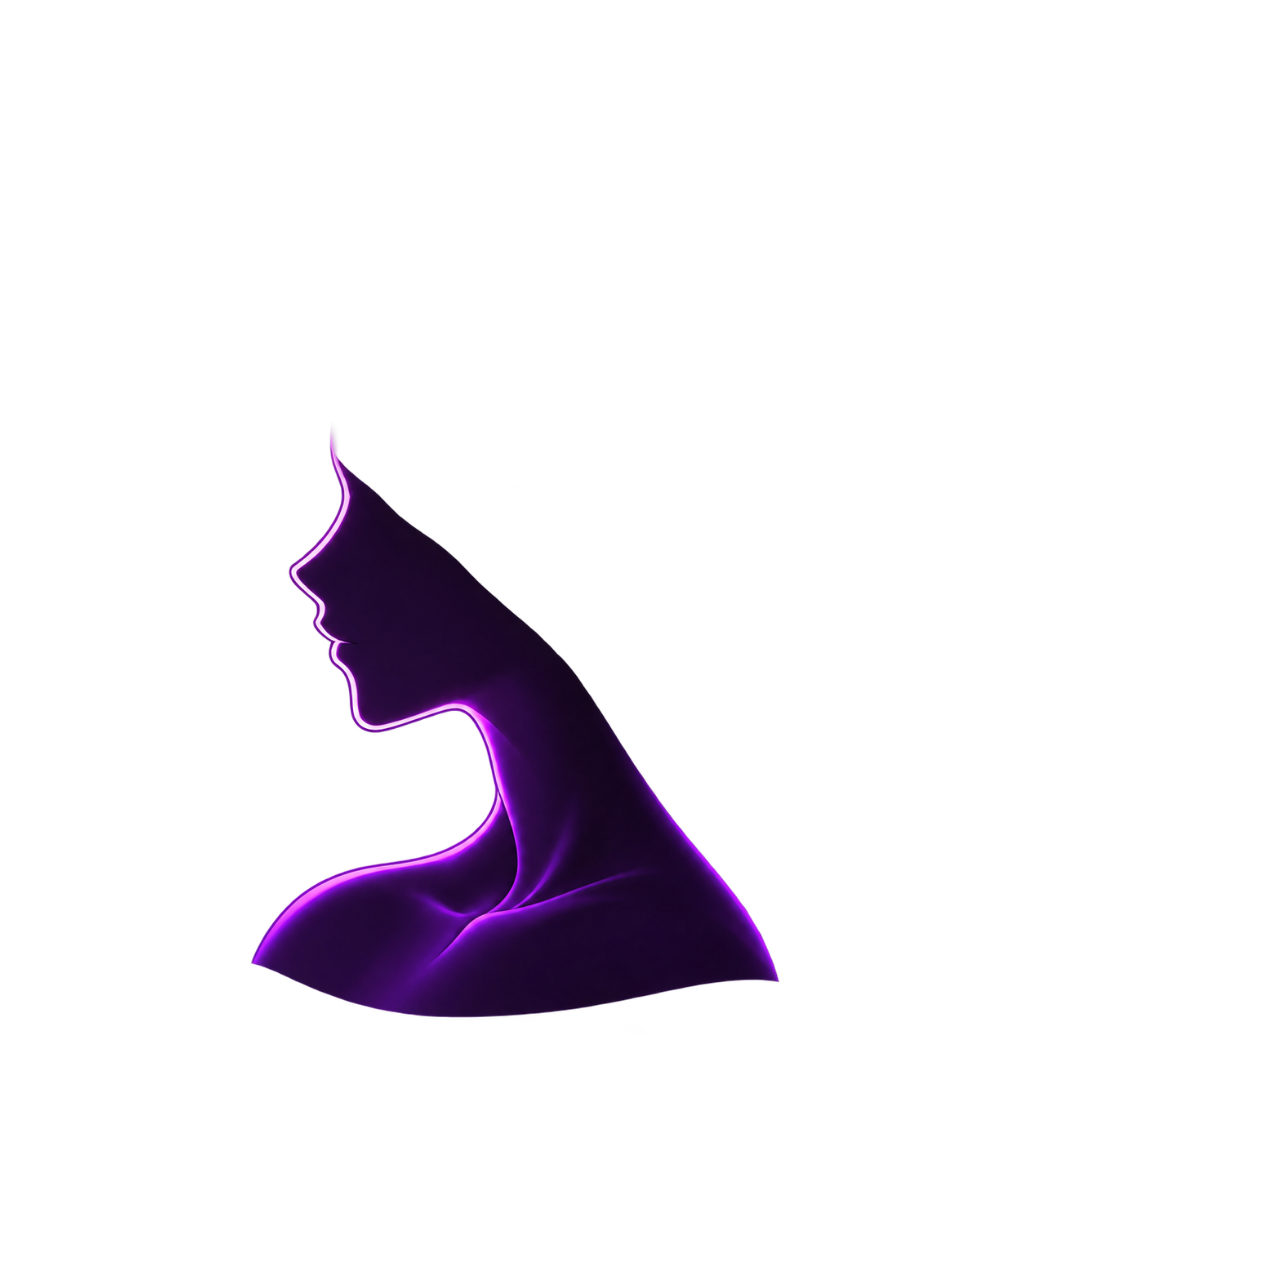
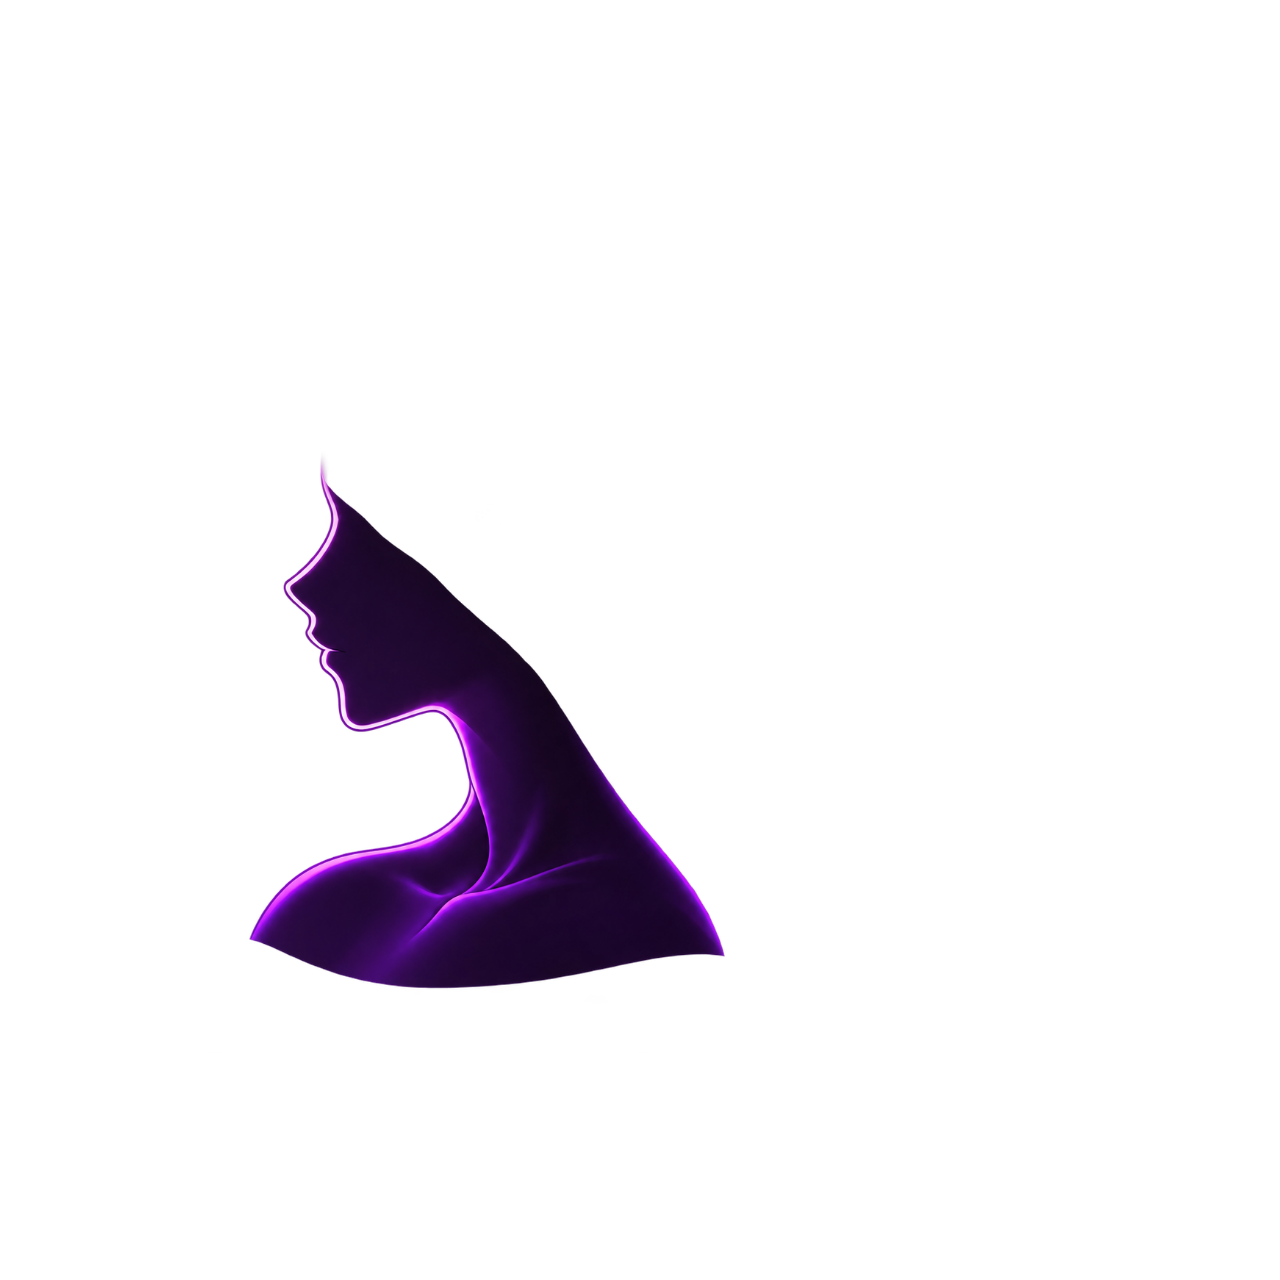
[#221] fix(emblem): preserve violet hair depth and frame clearance

Changed region(s): [[0.1875, 0.3438, 0.625, 0.8125], [0.2812, 0.5625, 0.3125, 0.5938]]

diff --git a/apps/stellar-desktop-e2e/src/emblem.spec.ts b/apps/stellar-desktop-e2e/src/emblem.spec.ts
@@ -1,5 +1,48 @@
 import { expect, test } from '@playwright/test';
 
+test('purple hair stays in front of every body fragment before settlement', async ({
+  page,
+}) => {
+  await page.goto('/');
+  const menu = page.getByRole('button', {
+    name: 'Experience menu',
+    exact: true,
+  });
+  await menu.click();
+  await page
+    .getByRole('button', { name: 'Start activity', exact: true })
+    .click();
+  const scene = page.locator('.camera');
+  await expect
+    .poll(() => scene.evaluate((element) => element.getAnimations().length))
+    .toBe(1);
+  const ordering = await scene.evaluate((element) => {
+    const animations = element.getAnimations({ subtree: true });
+    for (const animation of animations) {
+      animation.pause();
+      animation.currentTime = 900;
+    }
+    const planes = Array.from(element.querySelectorAll<HTMLElement>('.plane'));
+    const hair = planes.find((plane) =>
+      plane.querySelector('img')?.src.endsWith('/violet-hair.png'),
+    );
+    const bodies = planes.filter((plane) =>
+      plane.querySelector('img')?.src.endsWith('/violet-body.png'),
+    );
+    if (!hair || bodies.length !== 3)
+      throw Error('Missing purple artwork planes');
+    const depth = (plane: HTMLElement) =>
+      new DOMMatrix(getComputedStyle(plane).transform).m43;
+    const result = { hair: depth(hair), bodies: bodies.map(depth) };
+    for (const animation of animations) animation.play();
+    return result;
+  });
+  expect(ordering.hair).toBeLessThan(0);
+  for (const body of ordering.bodies)
+    expect(ordering.hair).toBeGreaterThan(body);
+  await menu.click();
+});
+
 test('settled face assembly is pixel-identical to the original unclipped image stack at supported sizes', async ({
   page,
 }) => {

diff --git a/libs/stellar-emblem/production-v1/README.md b/libs/stellar-emblem/production-v1/README.md
@@ -28,7 +28,9 @@ The original #176 independent image-capable review accepted the visual direction
 
 ## Registered face fragmentation (#211)
 
-The #221 candidate moves the gold ornament in front of its own hair in the exploded depth order. Previously its depth stayed behind the hair until every plane reached zero, at which point paint order abruptly made it visible. Both ornaments now retain the same front-to-back relationship during assembly. It also raises the violet body by 15 source units and moves it left by 15, and raises the gold body by 30 units and moves it right by 7. This re-registers the untouched source cutouts inside their hair apertures and aligns the gold nose with the existing hair contour. The two body exports and composed previews change; the six original generated sources and all other exported images retain their original pixels. Every assembled transform remains zero. Native evidence and comparison with the supplied canonical reference determine visual acceptance, not the zero-pose invariant alone.
+The #221 candidate keeps both ornaments in front of their own hair throughout assembly. The violet hair also stays in front of every violet body fragment: its previous depth index put it behind the body during motion even though its final paint order was in front, making covered strands suddenly appear near settlement. The exporter rejects either reversed relationship. Depth spacing, camera and durations are unchanged.
+
+The violet body uses scale 0.72 at (37, 131), reducing its size by 10% from the earlier 0.8 registration and placing its profile further left and down. At alpha 24/255 or greater, its maximum radius is 492.13 source units and the untouched violet hair's is 490.86. Both clear the outer frame's inner edge at radius 497.5; the exporter requires at least two source units of clearance. This prevents the purple contour from running under the outer gold stroke without clipping or repainting it. The gold body remains raised by 30 units and moved right by 7 to join the existing hair contour. The two body exports and composed previews change; the six original generated sources and all other exported images retain their original pixels. Every assembled transform remains zero. Native evidence and comparison with the supplied canonical reference determine visual acceptance, not the zero-pose invariant alone.
 
 The emblem molecule also accepts an explicit `solActive` presentation input. Once assembly actually settles, it reveals a single red circle concentric with the existing outer gold circle and two narrow eye glints; the effect scales with the emblem, fades on removal and respects reduced motion. The app binds this input to the restored persistent voice composition model, including explicit Sol drafting and confirmed reset to Terra. This input communicates selected intent and does not itself verify the actual inference provider or model.
 

diff --git a/apps/stellar-desktop/public/emblem/provenance.md b/apps/stellar-desktop/public/emblem/provenance.md
@@ -2,14 +2,14 @@
 
 Runtime files are byte-identical copies from [the production-v1 source pack](https://github.com/DanielssonThomas/Stellar/blob/develop/libs/stellar-emblem/production-v1/README.md). Issue #176 supplied the hybrid raster artwork and editable SVG geometry; #204 composes its four stars into the outer frame, adds three matching inner circles and assigns eleven uniformly spaced logical planes. #211 divides each existing body into three registered clips, yielding fifteen logical planes over the same eleven image files. The manifest retains production-candidate status. All files share a 1280 square origin and all assembled transforms remain zero. The #221 correction re-registers the two body exports inside their hair apertures; all six generated source cutouts remain unchanged, as do the other four exported raster images.
 
-The exported runtime payload is 2,744,098 bytes for the manifest and eleven unique registered image files. Text newline conventions can change that count on another platform. Original references, generated masters, registration, history and previews remain in the source library. Imagegen supplied the original raster artwork; #221 only changes deterministic registration. Native performance and physical microphones require separate verification.
+The exported runtime payload is 2,708,109 bytes for the manifest and eleven unique registered image files. Text newline conventions can change that count on another platform. Original references, generated masters, registration, history and previews remain in the source library. Imagegen supplied the original raster artwork; #221 only changes deterministic registration. Native performance and physical microphones require separate verification.
 
 Copy integrity was checked byte-for-byte against source files on this checkout. SHA-256 hashes below normalize JSON/SVG text to LF and preserve exact PNG bytes.
 
 | Runtime file               | SHA-256                                                          |
 | -------------------------- | ---------------------------------------------------------------- |
-| manifest.json              | 5d19f26cbeb4bd01eaa4cec1963eaaecb281087179b36b0c537128e3ef2dd992 |
-| layers/violet-body.png     | d9123e536bad414ac09496f4fa34c3b940c8d60858ea7ca206fd7f555b45dfeb |
+| manifest.json              | d63423584f276dfc60ade96d01e42aa1076bca00e68ed4920999609f925969e8 |
+| layers/violet-body.png     | 2d26d670fbaab0630cd7d243e55ba75de39b8662d34507fd3ceefef482868730 |
 | layers/violet-hair.png     | 5ca76606302c0758dd55b520c5ce0cd751bda9e9b8c827ff2e78920c19938da3 |
 | layers/violet-ornament.png | 693fdcba33e399e0585d05c27ca3fac38b93bd66d4d61c0cd08ecdd0647d09ef |
 | layers/gold-body.png       | e4f0044e8b4a320b312c0071596cf0d91912136915cb322fec9dd96446aa3e9c |
